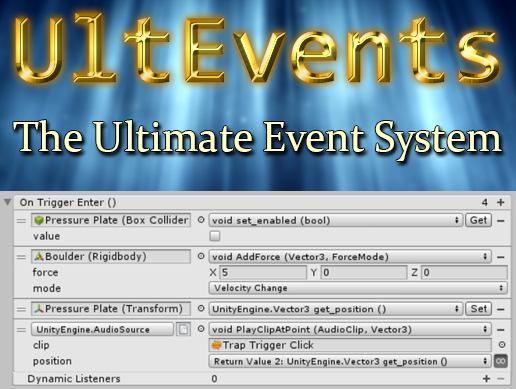
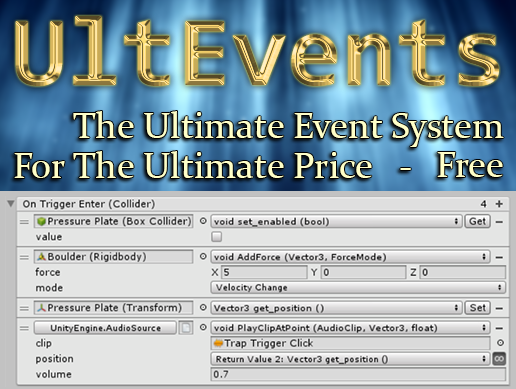
UltEvents v2.0 released.

diff --git a/posts/ultevents-v2-0.html b/posts/ultevents-v2-0.html
@@ -6,7 +6,7 @@
 -->
 <html lang="en">
 	<head>
-		<title>Kailas Dierk - Archive</title>
+		<title>Kailas Dierk - UltEvents v2.0</title>
 		<meta charset="utf-8">
 		<meta name="viewport" content="width=device-width, initial-scale=1" />
 		<!--[if lte IE 8]><script src="/kailas-dierk/assets/js/ie/html5shiv.js"></script><![endif]-->
@@ -25,9 +25,9 @@
 		<meta name="msapplication-tooltip" content="Kailas Dierk" />
 		<meta name="msapplication-starturl" content="/kailas-dierk/" />
 
-		<meta property="og:title" content="Kailas Dierk - Archive" /> 
+		<meta property="og:title" content="Kailas Dierk - UltEvents v2.0" /> 
 		<meta property="og:type" content="website" />
-		<meta property="og:url" content="https://kybernetikgames.github.io/kailas-dierk/posts" />
+		<meta property="og:url" content="https://kybernetikgames.github.io/kailas-dierk/posts/ultevents-v2-0" />
 		<!-- TODO: More social graph meta tags -->
         
 
@@ -39,9 +39,14 @@
 		<div id="wrapper">
 
 			<!-- Header -->
+
+    
 <header id="header">
-    <h1>Archive</h1>  
+    <h1>UltEvents v2.0</h1>
+    <hr/>     
+        <p><em>Published on Monday, 3 June 2019</em></p>
 </header>
+
 			<!-- Nav -->
 			<nav id="nav">
 				<ul>
@@ -59,33 +64,32 @@
 
 				<!-- Content -->
 					<section id="content" class="main">
-						 
- <div class="content">
-        <header class="major">
-            <h2>2019</h2>
-        </header>
+						
 
-        <div style="margin-bottom: 12px;">
-            <a href="/kailas-dierk/posts/ultevents-v2-0.html">
-                <div><strong>UltEvents v2.0</strong></div>
-            </a>
-            <div><em>Posted on Monday, 3 June 2019</em></div>            
-        </div>   
-        <div style="margin-bottom: 12px;">
-            <a href="/kailas-dierk/posts/animancer-v3-0.html">
-                <div><strong>Animancer v3.0</strong></div>
-            </a>
-            <div><em>Posted on Tuesday, 28 May 2019</em></div>            
-        </div>   
-        <div style="margin-bottom: 12px;">
-            <a href="/kailas-dierk/posts/hello-world.html">
-                <div><strong>Hello World</strong></div>
-            </a>
-            <div><em>Posted on Wednesday, 27 March 2019</em></div>            
-        </div>   
-    <ul class="actions">            
-            </ul>
-</div>
+<p>[<a href="http://u3d.as/15Zc">Download</a>] [<a href="https://kybernetikgames.github.io/ultevents/">Documentation</a>] [<a href="https://forum.unity.com/threads/687970/">Forum</a>] [<a href="mailto:KybernetikGames&#64;gmail.com?subject=UltEvents">KybernetikGames&#64;gmail.com</a>]</p>
+<p><strong>UltEvents</strong> allows you to easily setup and configure persistent event  callbacks via the Inspector. It serves the same purpose as the inbuilt <a href="https://docs.unity3d.com/Manual/UnityEvents.html">UnityEvents</a>,  but has superior features with fewer restrictions and an improved  Inspector interface which requires fewer clicks to perform individual tasks.</p>
+<p><a href="http://u3d.as/15Zc">Download it for <strong>free</strong></a> and check out the <a href="https://kybernetikgames.github.io/ultevents/docs">Documentation</a> to get started.</p>
+<hr />
+<p>Changes in v2.0:</p>
+<ul>
+<li>Moved everything out of the precompiled DLL to make it easier to access and modify the source code.</li>
+</ul>
+<blockquote class="blockquote">
+<p><strong>Warning</strong>: when upgrading from an earlier version you  must delete the old version before importing the new one. This will also  cause all of the <a href="https://kybernetikgames.github.io/ultevents/docs/creating-and-triggering#premade-event-scripts">Premade Event Scripts</a> in your project to go missing so you will need to set them all up again. This is an unfortunate side effect of the way Unity handles  references to scripts inside a DLL compared to regular script files.</p>
+</blockquote>
+<ul>
+<li>Replaced PDF user manual with a website hosted at <a href="https://kybernetikgames.github.io/ultevents">https://kybernetikgames.github.io/ultevents</a>.</li>
+<li>Added support for constructors.</li>
+<li>Added interfaces corresponding to all <a href="https://kybernetikgames.github.io/ultevents/api/UltEvents/UltEvent">UltEvent</a> types so that the ability to add and remove listeners can be exposed  without exposing the ability to invoke, clear, or access other members  of the event.</li>
+<li>Fixed cached <a href="https://kybernetikgames.github.io/ultevents/api/UltEvents/PersistentArgument">PersistentArgument</a> values to be cleared properly when the user modifies the argument in the Inspector.</li>
+<li>Removed the Parameter Constructors sub-menu because it isn't particularly useful now that actual constructors are supported.</li>
+</ul>
+<hr />
+<p>Next up I'm planning to work on an update for <a href="http://u3d.as/Kbg">Inspector Gadgets</a>.</p>
+
+
+  
+ 
 					</section>
 
 			</div>

diff --git a/unity-assets/index.html b/unity-assets/index.html
@@ -66,7 +66,7 @@
       <a href="https://kybernetikgames.github.io/animancer/"><img align="right" src="animancer.png"></a>
       <h1><a href="https://kybernetikgames.github.io/animancer/">Animancer</a></h1>
       An animation system which gives you the ability to play and control animations dynamically at runtime using simple scripts instead of manually configuring inflexible Animator Controllers that encourage bad programming practices. 
-      <br><br>[<a href="http://u3d.as/19Xb">Animancer Pro</a>] [<a href="http://u3d.as/19Xd">Animancer Lite</a>] [<a href="https://kybernetikgames.github.io/animancer/">Documentation</a>] [<a href="https://forum.unity.com/threads/566452/">Forum</a>] [Support: <a href="mailto:KybernetikGames&#64;gmail.com?subject=Animancer">KybernetikGames&#64;gmail.com</a>]
+      <br><br>[<a href="http://u3d.as/19Xb">Animancer Pro</a>] [<a href="http://u3d.as/19Xd">Animancer Lite</a>] [<a href="https://kybernetikgames.github.io/animancer/">Documentation</a>] [<a href="https://forum.unity.com/threads/566452/">Forum</a>] [Support: <a href="mailto:AnimancerUnityPlugin&#64;gmail.com?subject=Animancer">AnimancerUnityPlugin&#64;gmail.com</a>]
     </td>
   </tr>
   <tr>
@@ -89,8 +89,8 @@
     <td>
       <a href="http://u3d.as/15Zc"><img align="right" src="ult-events.png"></a>
       <h1><a href="http://u3d.as/15Zc">UltEvents</a></h1>
-      A serializable event system with better features than regular <a href="https://docs.unity3d.com/Manual/UnityEvents.html">UnityEvents</a>.
-      <br><br>[<a href="http://u3d.as/15Zc">UltEvents</a>] [Support: <a href="mailto:KybernetikGames&#64;gmail.com?subject=UltEvents">KybernetikGames&#64;gmail.com</a>]
+      Allows you to easily setup and configure persistent event callbacks via the Inspector. It serves the same purpose as the inbuilt <a href="https://docs.unity3d.com/Manual/UnityEvents.html">UnityEvents</a>, but has superior features with fewer restrictions and an improved Inspector interface which requires fewer clicks to perform individual tasks.
+      <br><br>[<a href="http://u3d.as/15Zc">UltEvents</a>] [<a href="https://kybernetikgames.github.io/ultevents/">Documentation</a>] [<a href="https://forum.unity.com/threads/687970/">Forum</a>] [Support: <a href="mailto:KybernetikGames&#64;gmail.com?subject=UltEvents">KybernetikGames&#64;gmail.com</a>]
     </td>
   </tr>
   <tr>

diff --git a/index.html b/index.html
@@ -65,6 +65,14 @@
 <div class="row">
     <div class="8u 12u$(medium)">
                 <div class="content">
+                    <a href="/kailas-dierk/posts/ultevents-v2-0">
+                        <header class="major">
+                            <h2>UltEvents v2.0</h2>                                
+                        </header>
+                    </a>
+                    <p>Posted on Monday, 3 June 2019</p>
+<p>[<a href="http://u3d.as/15Zc">Download</a>] [<a href="https://kybernetikgames.github.io/ultevents/">Documentation</a>] [<a href="https://forum.unity.com/threads/687970/">Forum</a>] [<a href="mailto:KybernetikGames@gmail.com?subject=UltEvents">KybernetikGames@gmail.com</a>]</p>                </div>       
+                <div class="content">
                     <a href="/kailas-dierk/posts/animancer-v3-0">
                         <header class="major">
                             <h2>Animancer v3.0</h2>                                
